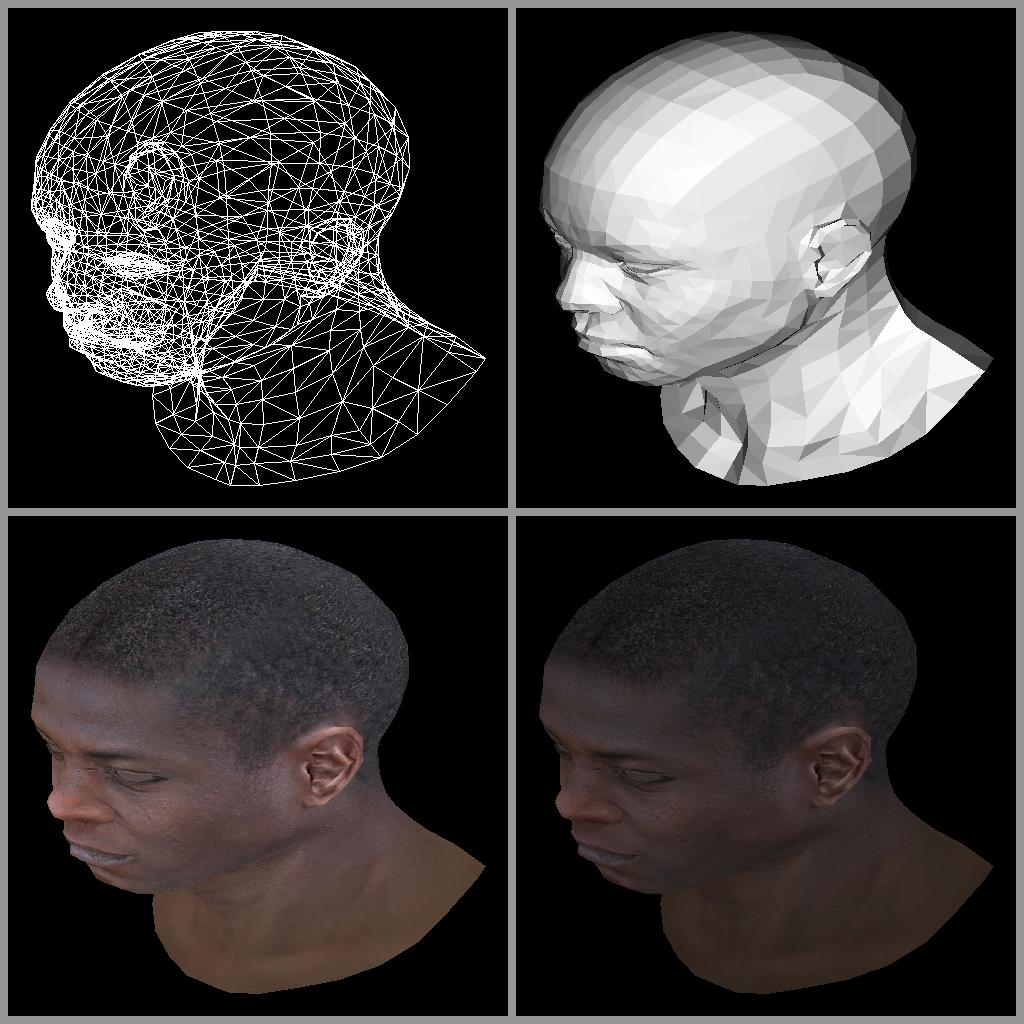
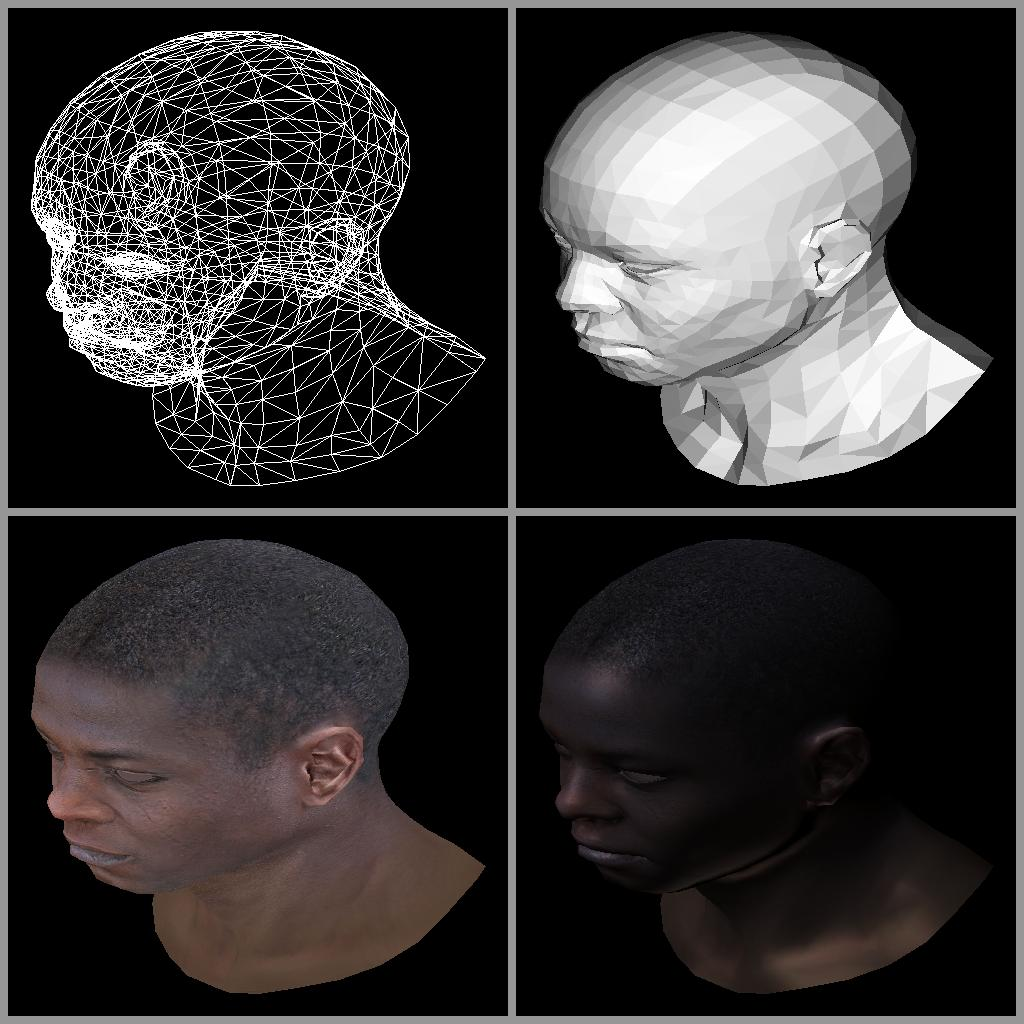
gitignore

Changed region(s): [[0.5312, 0.5312, 0.9688, 0.9688], [0.875, 0.9062, 0.9062, 0.9375]]

diff --git a/functions.py b/functions.py
@@ -1,6 +1,5 @@
 import numpy as np
 import matplotlib.image as img
-import xxsubtype
 
 
 def draw_line(x0, y0, x1, y1, image, color, location_x, location_y, view_height):
@@ -117,23 +116,20 @@ def get_barycentric_coordinates(p, v0, v1, v2):
     return a, b, c
 
 
-def cos_vec(L1, N1):
-    L = norm(L1)
-    N = norm(N1)
-
-    return L[0] * N[0] + L[1] * N[1] + L[2] * N[2]
-
-
 def lighting(ka, ia, kd, id, ks, Is, N, L, V, alp, a, b, c, d):
     # (1, 25, 0.8, 180, 0.8, 255, norm(N), sun, camera, 10, 1, 0.02, 0.004, d)
+    L = norm(np.array([L[0], L[1], L[2]]))
+    N = norm(np.array([N[0], N[1], N[2]]))
+    V = norm(np.array([V[0], V[1], V[2]]))
+
     la = ka * ia  # 25
-    ld = kd * id * cos_vec(L, N)  # 0-150
-    r = 2 * cos_vec(L, N) * N / norm(N) - L
-    ls = ks * Is * (cos_vec(r, V)) ** alp  # 0-205
+    ld = kd * id * np.inner(L, N)  # 0-150
+    r = 2 * np.inner(L, N) * N - L
+    ls = ks * Is * (np.inner(r, V)) ** alp  # 0-205
     ans = la + (ld + ls)  # 25-380
     ans2 = a + b * d + c * d ** 2  # 1+0.02*d+0.004*d
     # print(cos_vec(L, N))
-    return la + (ld + ls) / (a + b * d + c * d ** 2)  # должен быть от 0 до 115 примерно
+    return la + (ld + ls) / (aч + b * d + c * d ** 2)  # должен быть от 0 до 115 примерно
 
 
 class LocalToWorld:
@@ -173,7 +169,7 @@ class WorldToCamera:
 
 
 class Model:
-    def __init__(self, obj_path: str, texture_path: str, sun: np.ndarray):
+    def __init__(self, obj_path: str, texture_path: str):
         self.obj_path = obj_path
         self.texture_path = texture_path
 
@@ -187,8 +183,7 @@ class Model:
         self.normals = []
         self.new_normals = []
         self.faces = []
-        self.sun = sun
-        self.camera = 0
+        self.camera = np.array([0])
 
         for line in obj:
             temp = line[:-1].split()
@@ -211,7 +206,6 @@ class Model:
     def create_camera_coordinates(self, l2w: LocalToWorld, w2c: WorldToCamera):
         m = w2c.get_matrix().dot(l2w.get_matrix())
         mn = np.linalg.inv(m).T
-        self.sun = m.dot(self.sun)
         self.camera = w2c.camera_location_vec
         for i in range(len(self.vertices)):
             self.new_vertices.append(m.dot(self.vertices[i]))
@@ -398,7 +392,7 @@ def get_texture_image(view_height: int, view_width: int, image_height: int, imag
 
 
 def get_texture_image_with_with_light(view_height: int, view_width: int, image_height: int, image_width: int,
-                                      location_image_x: int, location_image_y: int, model: Model):
+                                      location_image_x: int, location_image_y: int, sun: np.ndarray, model: Model):
     image = np.zeros((view_height, view_width, 3), dtype=np.uint8)
     z_buffer = np.ones((view_height, view_width), dtype=np.float)
     image[:] = np.array([150, 150, 150])
@@ -412,7 +406,6 @@ def get_texture_image_with_with_light(view_height: int, view_width: int, image_h
     texture_v = model.texture_v
     normals = model.new_normals
     faces = model.faces
-    sun = model.sun
     camera = np.array([model.camera[0], model.camera[1], model.camera[2], 1])
 
     ll = min(vertices, key=lambda x: x[0])
@@ -451,9 +444,9 @@ def get_texture_image_with_with_light(view_height: int, view_width: int, image_h
         v2 = m.dot(vv2)
         v3 = m.dot(vv3)
 
-        vn1 = mn.dot(vn1)
-        vn2 = mn.dot(vn2)
-        vn3 = mn.dot(vn3)
+        # vn1 = mn.dot(vn1)
+        # vn2 = mn.dot(vn2)
+        # vn3 = mn.dot(vn3)
 
         x_min = int(np.floor(min(v1, v2, v3, key=lambda x: x[0])[0]))
         x_max = int(np.ceil(max(v1, v2, v3, key=lambda x: x[0])[0]))
@@ -471,11 +464,12 @@ def get_texture_image_with_with_light(view_height: int, view_width: int, image_h
 
                 d = np.sqrt((p[0] - sun[0]) ** 2 + (p[1] - sun[1]) ** 2 + (p[2] - sun[2]) ** 2)
                 # print(d)
+                p = -p
 
-                light1 = lighting(1, 25, 0.8, 180, 0.8, 255, norm(N), new_sun, camera, 10, 1, 0.02, 0.004, d)
-                light2 = lighting(1, 25, 1, 150, 0.8, 255, norm(N), new_sun, camera, 10, 1, 0.02, 0.004, d)
-                light3 = lighting(1, 25, 0.9, 190, 0.8, 255, norm(N), new_sun, camera, 10, 1, 0.02, 0.004, d)
-                # print(light1, light2, light3, d)
+                light1 = lighting(1, 25, 0.8, 180, 0.8, 255, N, sun, p, 10, 1, 0.02, 0.004, d)
+                light2 = lighting(1, 25, 1, 150, 0.8, 255, N, sun, p, 10, 1, 0.02, 0.004, d)
+                light3 = lighting(1, 25, 0.9, 190, 0.8, 255, N, sun, p, 10, 1, 0.02, 0.004, d)
+                # print(light1, light2, light3)
 
                 if a >= 0 and b >= 0 and c >= 0:
                     z = a * v1[2] + b * v2[2] + c * v3[2]
@@ -486,12 +480,25 @@ def get_texture_image_with_with_light(view_height: int, view_width: int, image_h
 
                         color = texture_img[len(texture_img) - round(v * len(texture_img))][
                             round(u * len(texture_img[0]))]
+
                         color1 = round(color[0] * light1 / 255)
-                        color1 = 255 if color1 > 255 else color1
+                        if color1 > 255:
+                            color1 = 255
+                        elif color1 < 0:
+                            color1 = 0
+
                         color2 = round(color[1] * light2 / 255)
-                        color2 = 255 if color2 > 255 else color2
+                        if color2 > 255:
+                            color2 = 255
+                        elif color2 < 0:
+                            color2 = 0
+
                         color3 = round(color[2] * light3 / 255)
-                        color3 = 255 if color3 > 255 else color3
+                        if color3 > 255:
+                            color3 = 255
+                        elif color3 < 0:
+                            color3 = 0
+
                         color = np.array([color1, color2, color3])
 
                         image[view_height - j][i] = color

diff --git a/main.py b/main.py
@@ -5,13 +5,13 @@ import matplotlib.pyplot as plt
 l2w = LocalToWorld(5, 10, 15, [-1, 0, -2], [0.8, 0.8, 0.8])
 w2c = WorldToCamera([2, 2, 2], [-2, -2, 0])
 
-model = Model('obj/african_head/african_head.obj', 'obj/african_head/african_head_diffuse.tga', np.array([4, 4, 3, 1]))
+model = Model('obj/african_head/african_head.obj', 'obj/african_head/african_head_diffuse.tga')
 model.create_camera_coordinates(l2w, w2c)
 
 image1 = get_wire_image(1024, 1024, 500, 500, 8, 16 + 500, model)
 image2 = get_face_image(1024, 1024, 500, 500, 16 + 500, 16 + 500, model)
 image3 = get_texture_image(1024, 1024, 500, 500, 8, 8, model)
-image4 = get_texture_image_with_with_light(1024, 1024, 500, 500, 16 + 500, 8, model)
+image4 = get_texture_image_with_with_light(1024, 1024, 500, 500, 16 + 500, 8, np.array([-3, 3, 3, 1]), model)
 
 image = np.zeros((1024, 1024, 3), dtype=np.uint8)
 
